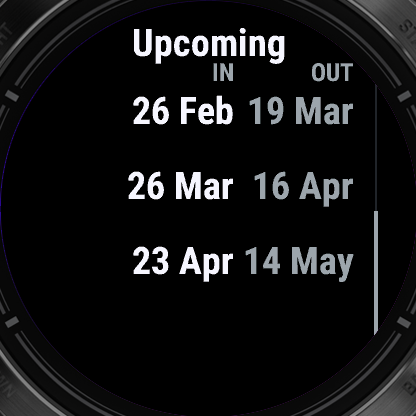
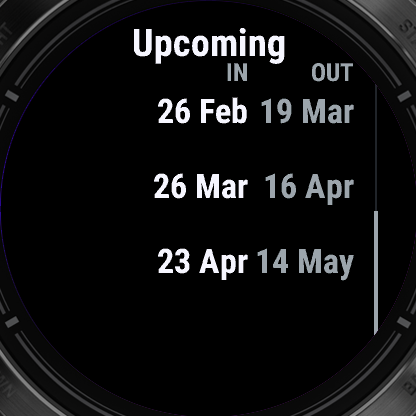
Fix list layout edge cases

Changed region(s): [[0.3125, 0.125, 0.8438, 0.3125], [0.3125, 0.4062, 0.8438, 0.5], [0.3125, 0.5938, 0.8438, 0.6875]]

diff --git a/docs/IMPLEMENTATION.md b/docs/IMPLEMENTATION.md
@@ -30,13 +30,15 @@ shape, and no decorative regimen bars or bezel tick.
 Cycle detail aligns all labels and values to one pair of edges. Actual events
 show a weekday timestamp with their variance and compact planned date; pending
 events say `due ...` and unavailable rows are omitted. `First recorded` is a
-caption under the title, brief-outs remain cycle-scoped, and the lifetime
-scheduled-removal count is explicitly labelled `Removals (all)` in the footer.
+caption under the title and brief-outs remain cycle-scoped. The lifetime
+removal count is omitted here so the two-row footer remains inside the 42 mm
+round safe area.
 
 Debug list fixtures cover `Wed 30 Sep`, a December-to-January projection, a
-three-day-overdue current cycle, 15-day early/late variance, and the 24-cycle
-history limit. Six focused tests cover date ranges, planned current endpoints,
-cycle-scoped variance text/severity, and the single January year cue.
+three-day-overdue current cycle, 15-day red and two-day amber variance, and the
+24-cycle history limit. Seven focused tests cover date ranges, planned current
+endpoints, cycle-scoped variance text/severity, the single January year cue,
+and the round-display edge calculation used by lower upcoming rows.
 
 ## v1.2 changes
 
@@ -177,7 +179,7 @@ the compiled settings schema are the available visual/build evidence.
 | Constrained personalities | `source/GlanceView.mc`, `source/BackgroundRuntime.mc`, `source/ServiceDelegate.mc` | Reduced mirror codecs, glance rendering, and hourly reminder service |
 | Build variants | `source/Clock.mc`, `source/OptionalFeatures.mc`, `source/DemoScenarios.mc`, `resources-debug/` | Production seams and debug-only clock, fixtures, notification previews, temporal-event diagnostics, and memory reporting |
 | Resources | `resources/strings/strings.xml`, `resources/drawables/` | Audited visible copy, launcher assets, and background notification icon |
-| Tests | `source/tests/*.mc` | 135 deterministic domain, picker, migration, settings, storage, reminder, layout-helper, and review-regression tests |
+| Tests | `source/tests/*.mc` | 136 deterministic domain, picker, migration, settings, storage, reminder, layout-helper, and review-regression tests |
 | Build checks | `scripts/build.sh`, `scripts/check-background-scope.sh`, `scripts/IqPrgHashes.java` | Three-target warning-free builds, portable `grep` background resource/exit guard, simulator tests, and Store-package PRG hashes |
 | Visual evidence | `docs/screenshots/` | 102 native-resolution captures, including nine v1.2 picker states |
 
@@ -243,7 +245,7 @@ and the dedicated constrained implementations are tagged into those scopes.
 
 ## Tests
 
-The final simulator result is **135 passed, 0 failed, 0 errors**:
+The final simulator result is **136 passed, 0 failed, 0 errors**:
 
 | File | Tests |
 | --- | ---: |
@@ -395,13 +397,13 @@ round-edge clearance. Button navigation, BACK-to-previous-column behavior, and
 touch selection were also exercised in the simulator.
 
 The list UX round regenerated `history` and `cycle-detail` on all three sizes.
-History captures exercise the 24-cycle fixture and its longest scoped variance,
-`Out 15d early · In 15d late`, in one line. They also verify the date-range
-hierarchy, grey planned endpoint for the current cycle, symmetric focus shape,
-neutral scroll rail, and round-edge clearance. The detail captures verify the
-single label/value edges, weekday timestamps, variance plus planned-date
-context, omitted unavailable rows, `First recorded` caption, and the relocated
-`Removals (all)` lifetime statistic.
+History captures exercise the 24-cycle fixture with both its longest scoped
+variance, `Out 15d early · In 15d late`, in red and a two-day early/late row in
+amber. They also verify the date-range hierarchy, grey planned endpoint for the
+current cycle, symmetric focus shape, neutral scroll rail, and round-edge
+clearance. The detail captures verify the single label/value edges, weekday
+timestamps, variance plus planned-date context, omitted unavailable rows,
+`First recorded` caption, and a two-row footer clear of the lower chord.
 
 Both Upcoming pages were regenerated on all three sizes from the overdue
 December fixture. The captures verify fixed right-aligned `IN`/`OUT` columns,
